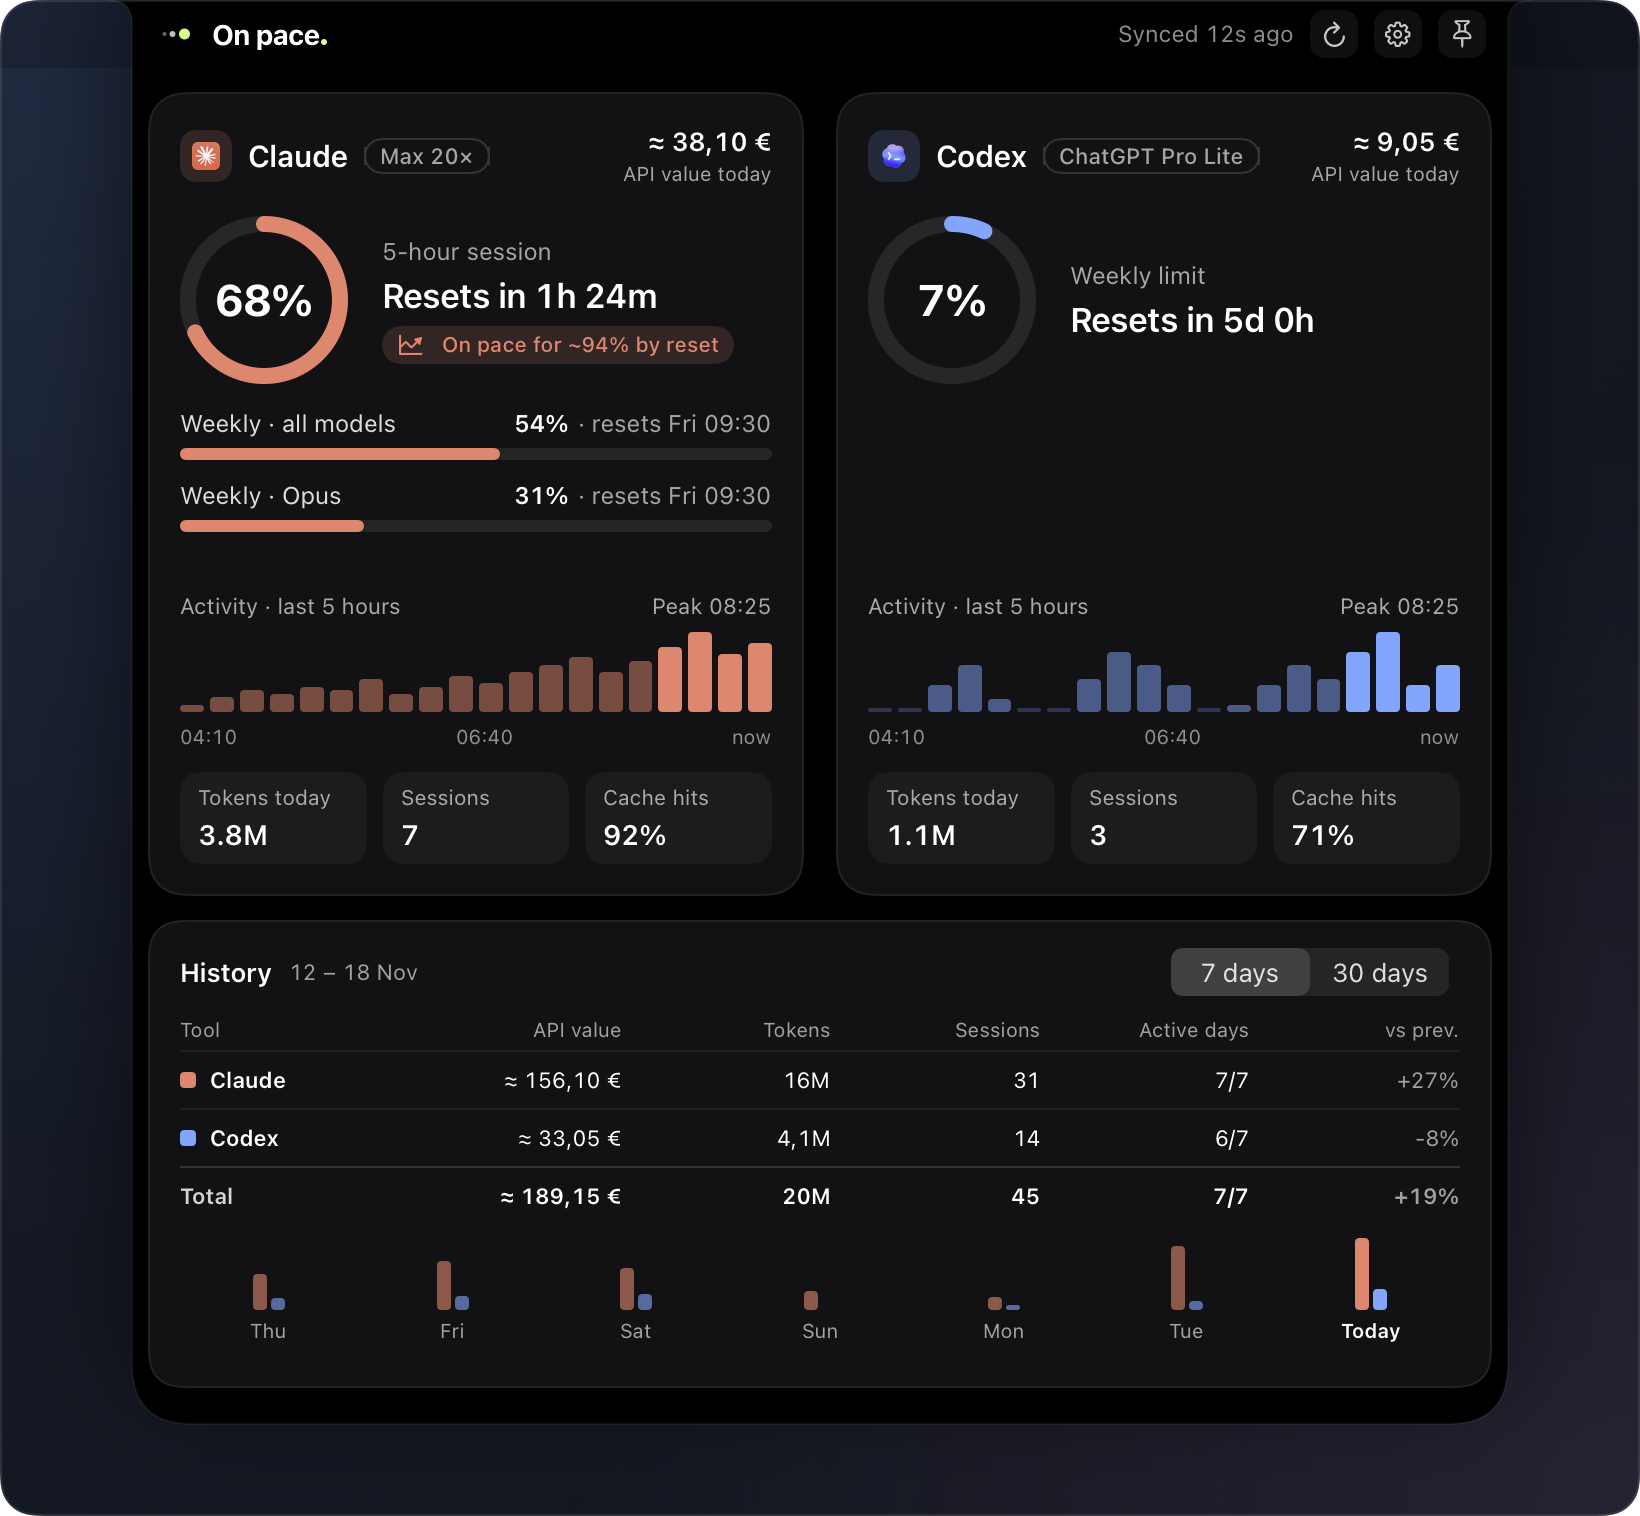
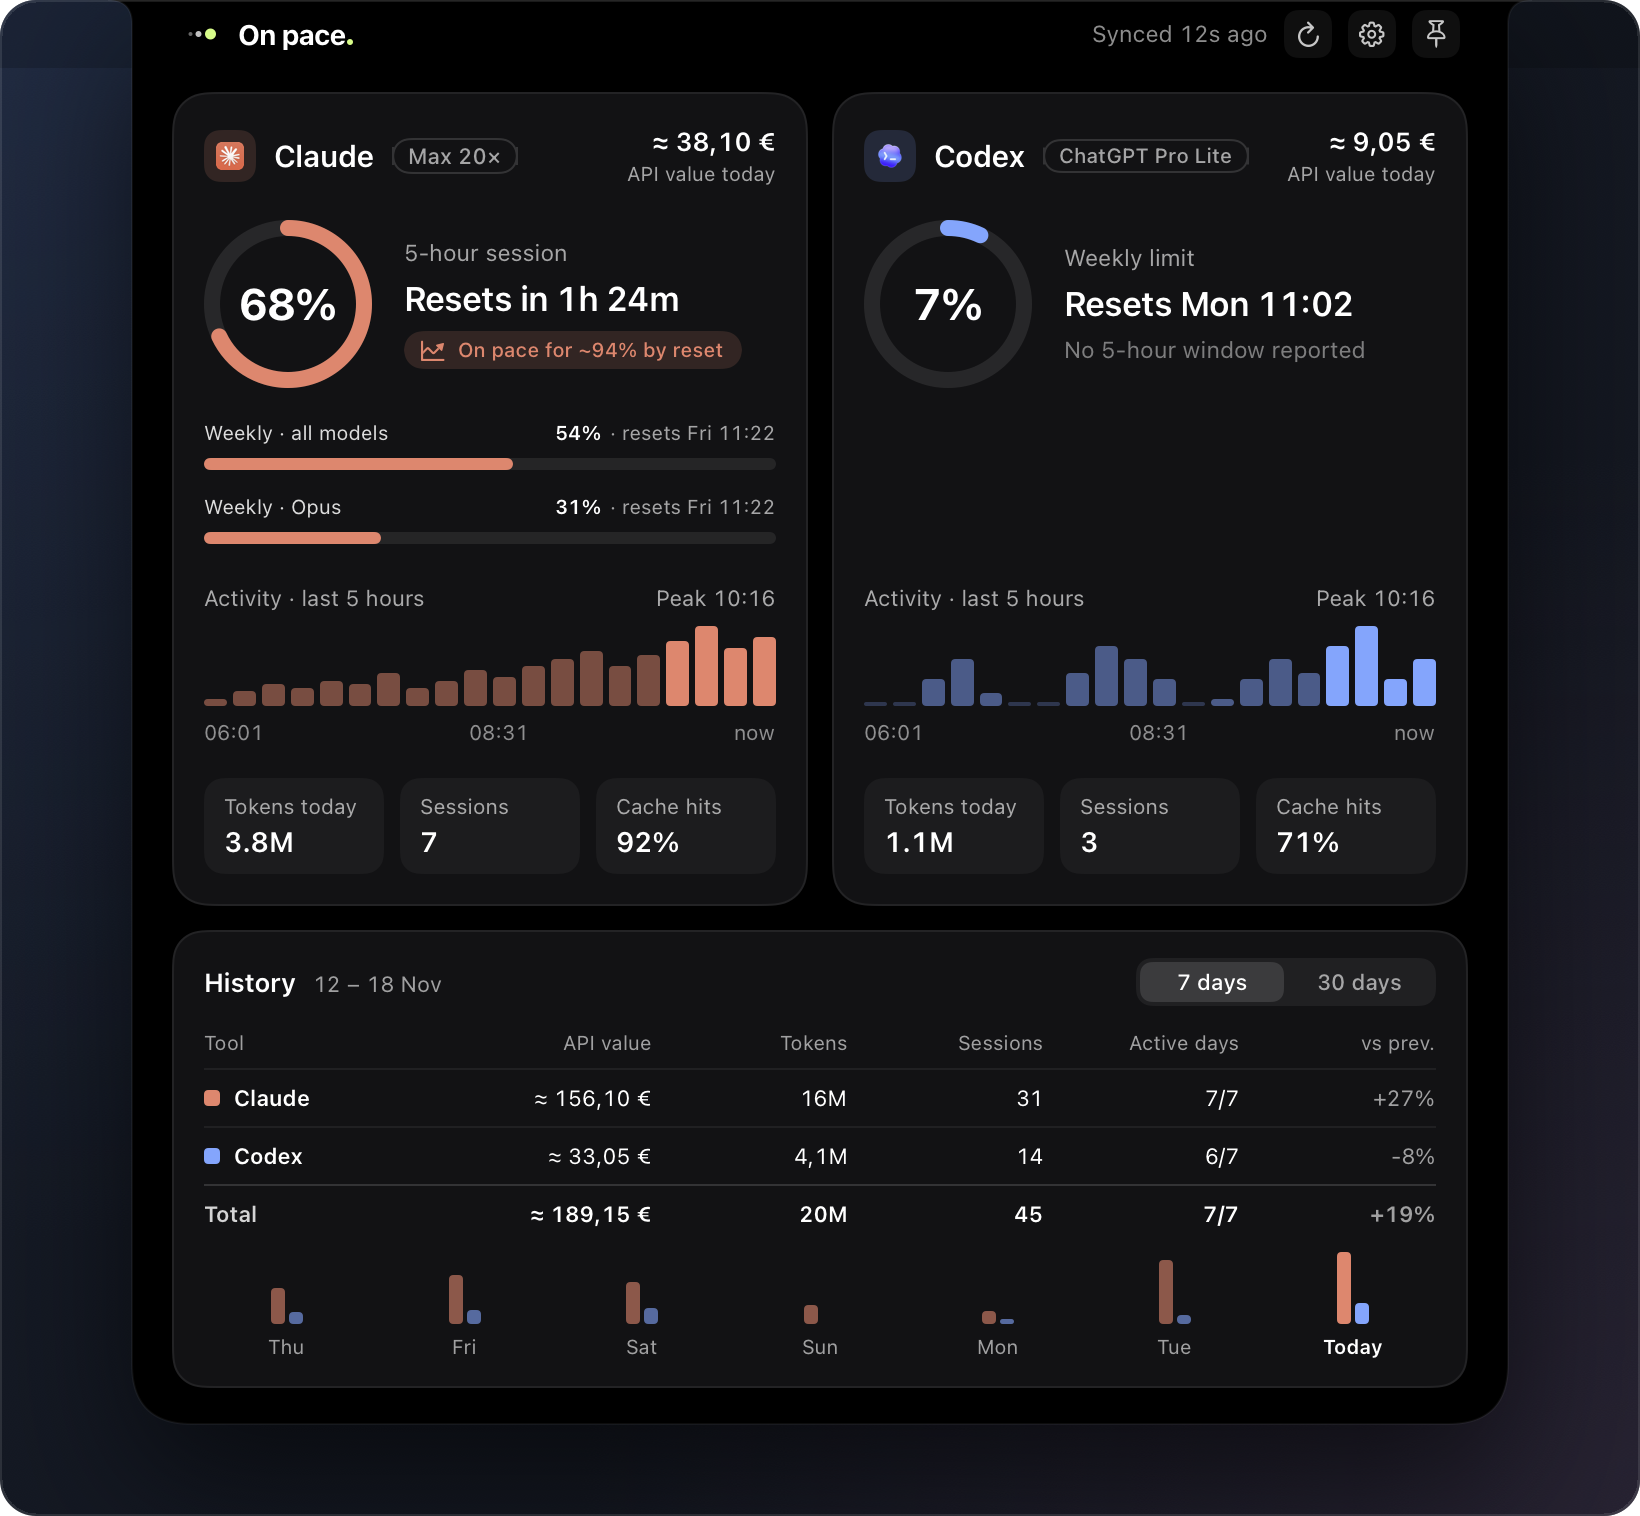
Prepare On pace. 0.1.2 and refresh screenshots

diff --git a/README.md b/README.md
@@ -20,7 +20,7 @@ Hover over the notch to see reset times, recent activity, and usage history.
   <img src="docs/images/on-pace-detail.png" width="820" alt="Expanded panel showing a Claude session ring and a Codex weekly limit ring, alongside activity charts and seven-day history">
 </p>
 
-The screenshots show the local build with Claude and Codex logos and sample usage. The Codex ring shows the weekly limit when a five-hour limit is unavailable.
+The screenshots show sample usage. The Codex ring shows the weekly limit when a five-hour limit is unavailable.
 
 ## Install
 
